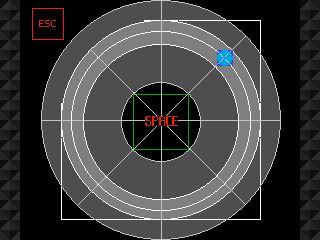
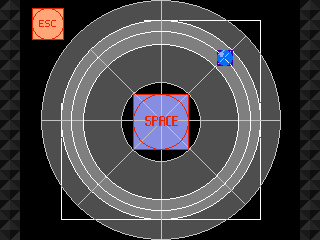
.

Changed region(s): [[0.4062, 0.3792, 0.5938, 0.6417], [0.0938, 0.0292, 0.2188, 0.175], [0.6562, 0.2042, 0.75, 0.2917]]

diff --git a/jiljil-ui.js b/jiljil-ui.js
@@ -28,6 +28,10 @@
 				this.ctx.scale(window.scale, window.scale);
 				this.ctx.imageSmoothingEnabled = false;
 				
+				this.bmp_touchUI = new Image();
+				this.bmp_touchUI.src = "BITMAP/BMP_TOUCH.png";
+				this.bmp_touchUI.addEventListener("load", this.onImageLoad.bind(this));
+				
 				this.canvas2.addEventListener('touchstart', this.onTouchStart.bind(this));
                 this.canvas2.addEventListener('touchmove', this.onTouchMove.bind(this));
                 this.canvas2.addEventListener('touchend', this.onTouchEnd.bind(this));
@@ -45,9 +49,6 @@
             this.bmp_charactor = new Image();
             this.bmp_charactor.src = "BITMAP/BMP_CHARACTOR.png";
             this.bmp_charactor.addEventListener("load", this.onImageLoad.bind(this));
-            this.bmp_touchUI = new Image();
-            this.bmp_touchUI.src = "BITMAP/eg3.png";
-            this.bmp_touchUI.addEventListener("load", this.onImageLoad.bind(this));
 			
 			this.frameCount = 0;
 			
@@ -101,7 +102,6 @@
 			var x = this.touchX - window.width/2;
 			var y = -this.touchY + window.height/2;
 			var r = dist2(x,y);
-			console.log(e.touches[0].pageX, e.touches[0].pageY);
 			window.keysBeingPressed[' '] = (r<40);
 			window.keysBeingPressed['Escape'] = (this.touchX>32 && this.touchX<32+32 && this.touchY>8 && this.touchY<8+32);
 			window.keysBeingPressed['f'] = (e.touches[0].pageX>80 && e.touches[0].pageX<160 && e.touches[0].pageY<100);
@@ -118,10 +118,13 @@
 				var y = -this.touchY + window.height/2;
 				var r = dist2(x,y);
 				var theta = Math.atan2(y,x);
-				window.keysBeingPressed['ArrowRight'] = (abs(theta-0)<2*Math.PI/8);
-				window.keysBeingPressed['ArrowUp'] = (abs(theta-Math.PI/2)<2*Math.PI/8);
-				window.keysBeingPressed['ArrowLeft'] = ((abs(theta-Math.PI)<2*Math.PI/8) || (abs(theta - -Math.PI)<2*Math.PI/8)); //branch cut at \pm\pi
-				window.keysBeingPressed['ArrowDown'] = (abs(theta - -Math.PI/2)<2*Math.PI/8);
+				console.log(theta*180/Math.PI);
+				// console.log(e.touches[0].pageX, e.touches[0].pageY);
+				// console.log(this.touchX, this.touchY);
+				window.keysBeingPressed['ArrowRight'] = (abs(theta-0)<2*Math.PI/4);
+				window.keysBeingPressed['ArrowUp'] = (abs(theta-Math.PI/2)<2*Math.PI/4);
+				window.keysBeingPressed['ArrowLeft'] = ((abs(theta-Math.PI)<2*Math.PI/4) || (abs(theta - -Math.PI)<2*Math.PI/4)); //branch cut at \pm\pi
+				window.keysBeingPressed['ArrowDown'] = (abs(theta - -Math.PI/2)<2*Math.PI/4);
 				// console.log(theta, window.keysBeingPressed);
             }
         }
@@ -145,7 +148,7 @@
         
 
         onImageLoad() {
-            if (this.bmp_jiljil.complete && this.bmp_escape.complete && this.bmp_charactor.complete && this.bmp_touchUI.complete) {
+            if (this.bmp_jiljil.complete && this.bmp_escape.complete && this.bmp_charactor.complete && (!('ontouchstart' in window) || (('ontouchstart' in window)&&this.bmp_touchUI.complete))) {
                 this.onUpdate();
             }
         }
@@ -204,7 +207,10 @@
 					this.ctx2.drawImage(this.bmp_jiljil, 64, 64, 20, 20, 0, i*20, 20, 20); //left wall
 					this.ctx2.drawImage(this.bmp_jiljil, 64, 64, 20, 20, 320-20, i*20, 20, 20); //left wall
 				}
-				this.ctx2.drawImage(this.bmp_touchUI, 0, 0, 320, 240, 0, 0, 320, 240);
+				// this.ctx2.drawImage(this.bmp_touchUI, 0, 0, 320, 240, 0, 0, 320, 240);
+				this.ctx2.drawImage(this.bmp_touchUI, 0, 0, 32, 32, 32, 8, 32, 32);
+				this.ctx2.drawImage(this.bmp_touchUI, 32, 0, 56, 56, 130, 92, 56, 56);
+				this.ctx2.drawImage(this.bmp_touchUI, 88, 0, 196, 196, 60, 20, 196, 196);
 					
 			}
 			

diff --git a/jiljil-index.html b/jiljil-index.html
@@ -61,6 +61,7 @@
 				canvasContainer.appendChild(touchCanvas);
 			}
 			const touchCanvas = document.getElementById('touch-canvas');
+				touchCanvas.style.imageRendering = 'pixelated';
             const ui = new GameUI(gameCanvas, touchCanvas);
 			const game = new Game();
 			ui.setGame(game);

diff --git a/jiljil.js b/jiljil.js
@@ -405,6 +405,7 @@
 				
 				case 'escmenu':
 					if(ekeys['f']){
+						// ui.drawString(104,28,'F', 5);
 						window.audioContext.resume();
 						this.gameState = this.previousGameState;
 					}
